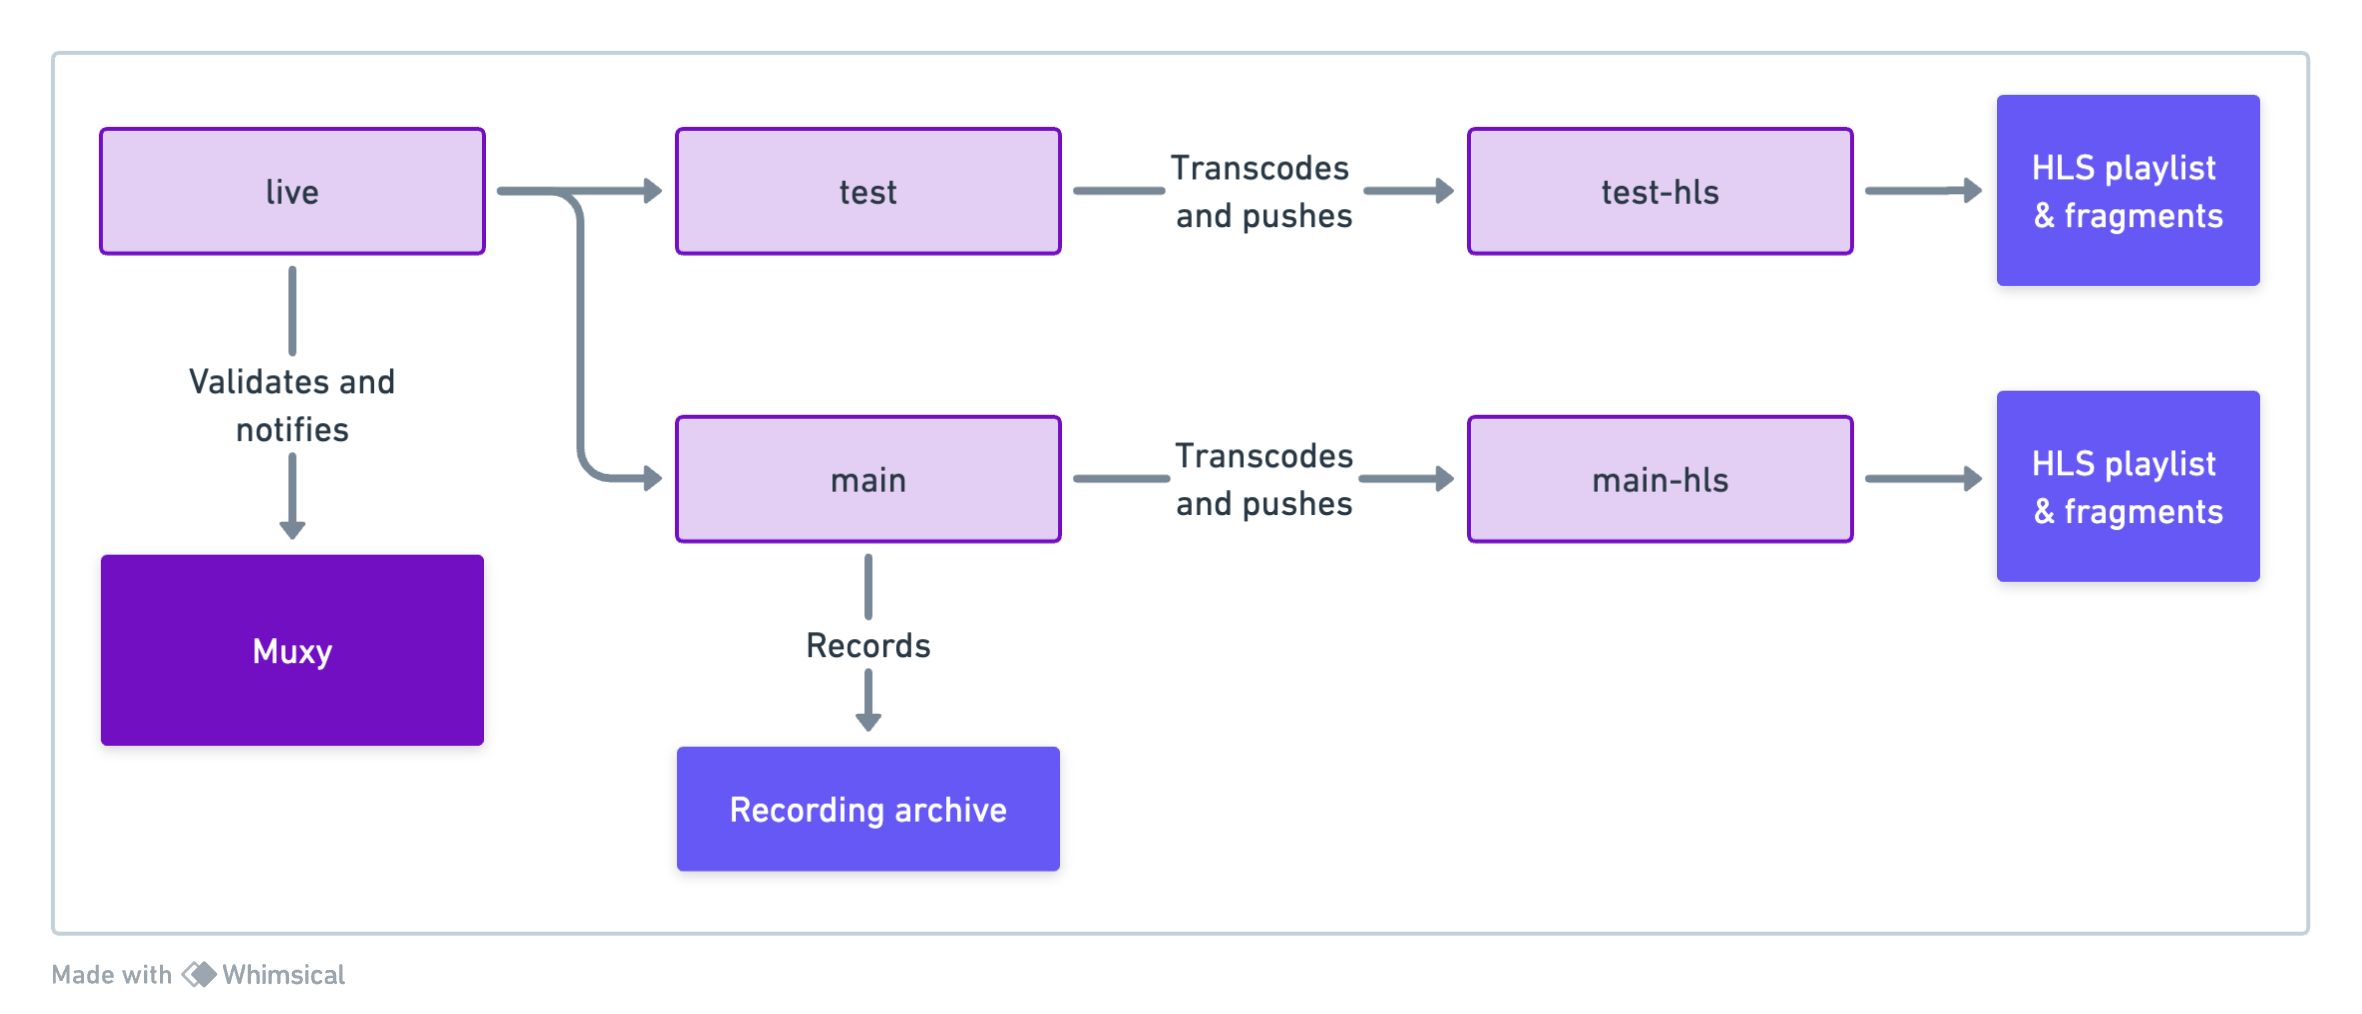
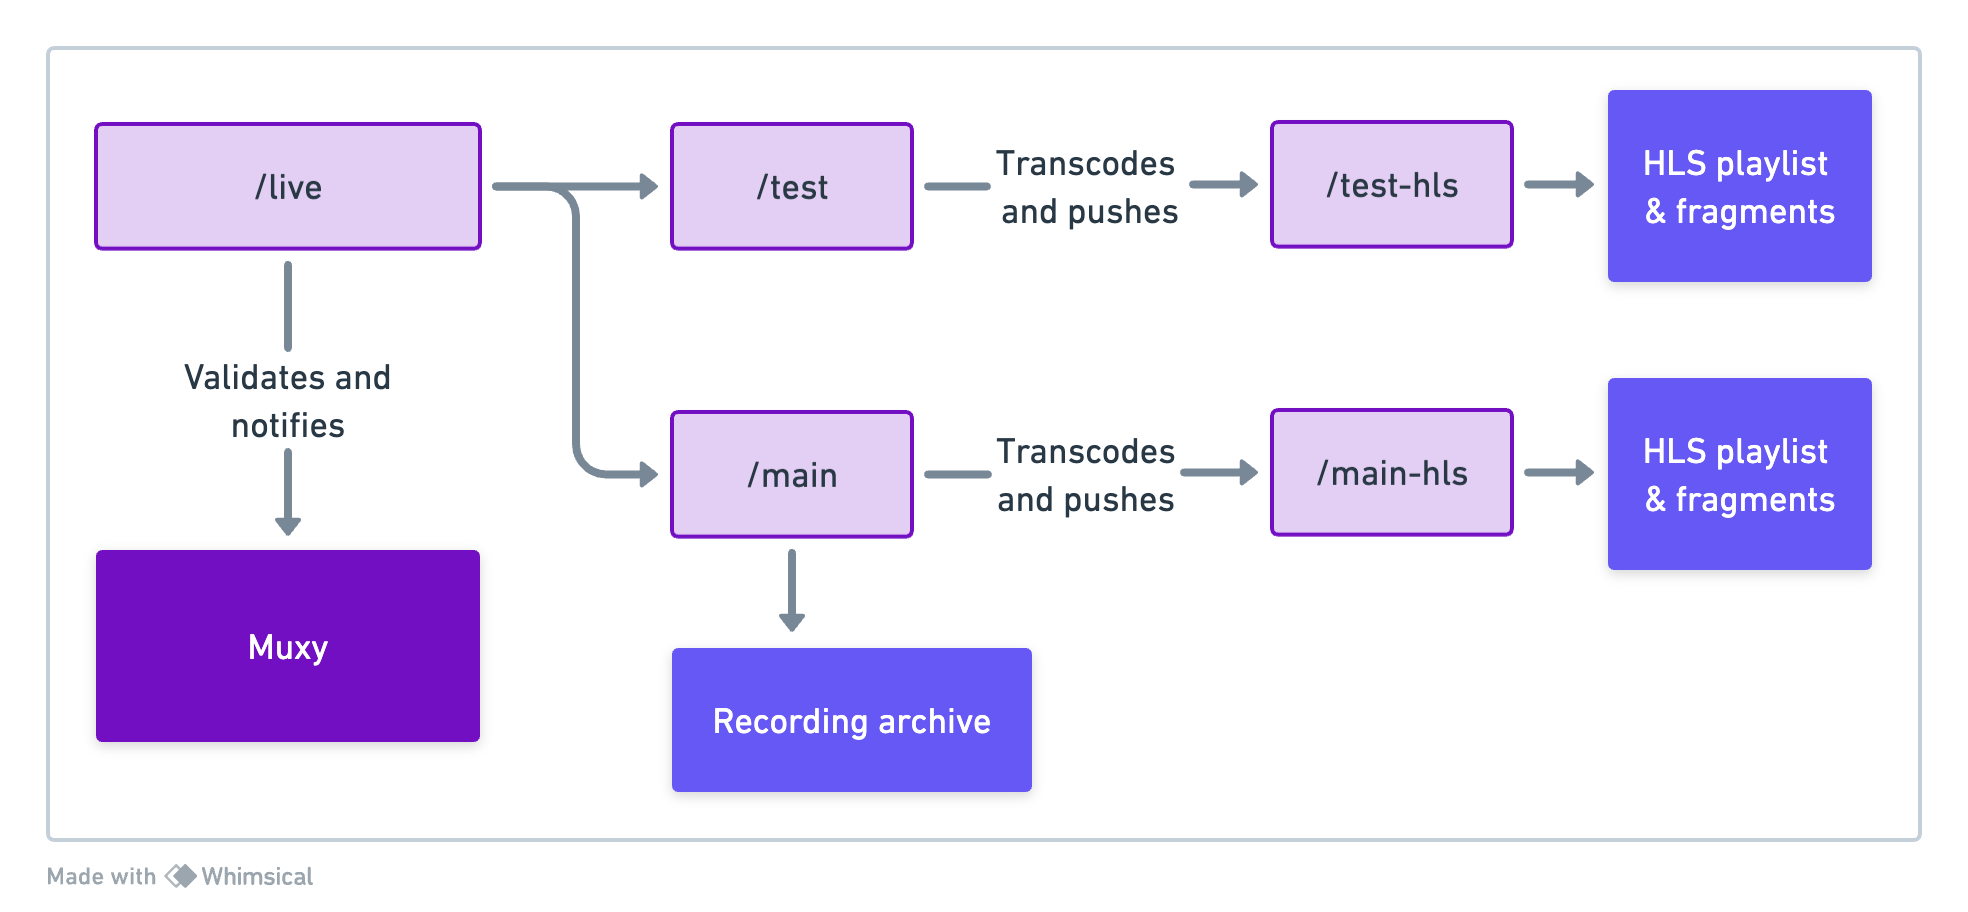
docs: Update rtmp diagram

Changed region(s): [[0.0, 0.0614, 0.9919, 0.9211], [0.0, 0.9518, 0.155, 0.9825], [0.093, 0.1842, 0.155, 0.2149]]

diff --git a/README.md b/README.md
@@ -89,9 +89,9 @@ Run `docker compose up` to start all services.
 
 ![Services high-level block diagram](services.png)
 
-### RTMP application flow
+### nginx-rtmp application flow
 
-![RTMP application flow](rtmp.png)
+![nginx-rtmp application flow](rtmp.png)
 
 ## License
 
